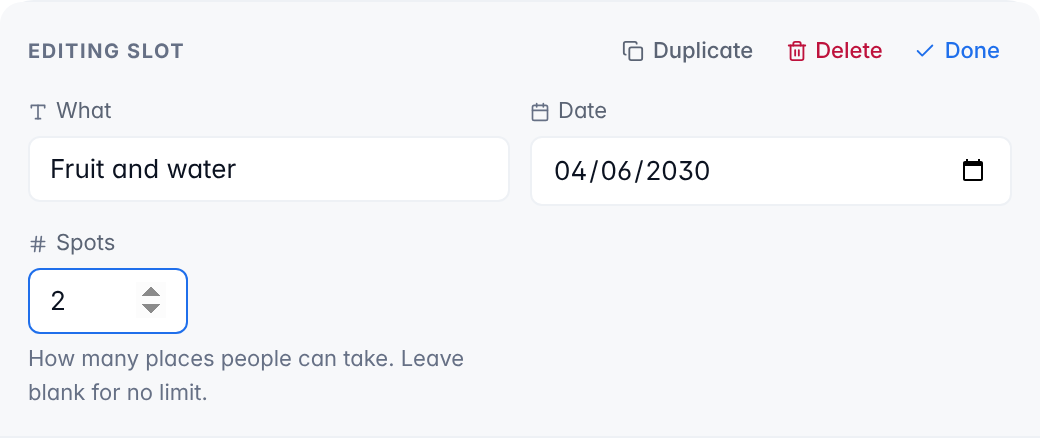
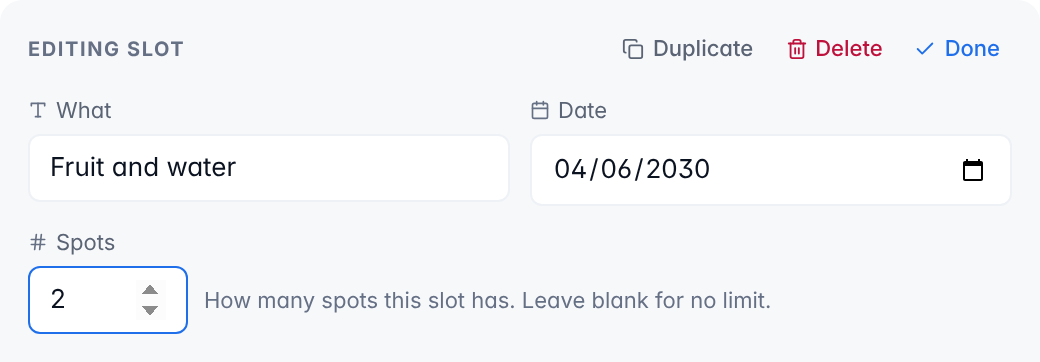
Give the slot editor's Spots its own row, with its hint beside the box (#744)

diff --git a/src/components/build-wysiwyg/SlotEditor.tsx b/src/components/build-wysiwyg/SlotEditor.tsx
@@ -40,8 +40,9 @@ type SlotEditorProps = {
 
 /**
  * Inline accordion editor for a single slot. Auto-fit grid keeps small
- * schemas tight while letting wider schemas wrap naturally; spots ride
- * along as the trailing cell so it lives in the same visual band.
+ * schemas tight while letting wider schemas wrap naturally. Spots takes a
+ * row of its own, so its hint can sit on one line beside the box rather
+ * than wrapping in whatever part of a row the fields leave over.
  */
 export function SlotEditor({
   row,
@@ -172,31 +173,33 @@ export function SlotEditor({
             </Cell>
           );
         })}
-        <label className="flex flex-col gap-1 text-[11px] text-ink-muted">
+        <label className="col-span-full flex flex-col gap-1 text-[11px] text-ink-muted">
           <span className="inline-flex items-center gap-1">
             <Hash size={10} className="text-ink-soft" />
             Spots
           </span>
-          <input
-            type="number"
-            min={1}
-            value={row.capacity ?? ''}
-            placeholder="No limit"
-            onChange={(e) => {
-              const raw = e.target.value;
-              if (raw === '') {
-                onCapacity(null);
-                return;
-              }
-              const parsed = parseInt(raw, 10);
-              onCapacity(Math.max(1, Number.isFinite(parsed) ? parsed : 1));
-            }}
-            aria-label="Spots"
-            aria-describedby={spotsHelpId}
-            className="w-20 rounded-md border border-surface-sunk bg-white px-2.5 py-1.5 text-[13px] text-ink outline-none focus:border-brand"
-          />
-          <span id={spotsHelpId} className="text-[11px] text-ink-soft">
-            How many places people can take. Leave blank for no limit.
+          <span className="flex items-center gap-2">
+            <input
+              type="number"
+              min={1}
+              value={row.capacity ?? ''}
+              placeholder="No limit"
+              onChange={(e) => {
+                const raw = e.target.value;
+                if (raw === '') {
+                  onCapacity(null);
+                  return;
+                }
+                const parsed = parseInt(raw, 10);
+                onCapacity(Math.max(1, Number.isFinite(parsed) ? parsed : 1));
+              }}
+              aria-label="Spots"
+              aria-describedby={spotsHelpId}
+              className="w-20 shrink-0 rounded-md border border-surface-sunk bg-white px-2.5 py-1.5 text-[13px] text-ink outline-none focus:border-brand"
+            />
+            <span id={spotsHelpId} className="min-w-0 text-[11px] text-ink-soft">
+              How many spots this slot has. Leave blank for no limit.
+            </span>
           </span>
         </label>
       </div>

diff --git a/src/help/articles/create-and-publish-a-signup.tsx b/src/help/articles/create-and-publish-a-signup.tsx
@@ -107,7 +107,7 @@ export function CreateAndPublishASignup() {
               src="/help/create-and-publish-a-signup/slot.png"
               alt="A slot being edited, with What set to Fruit and water, a date set, and Spots set to 2."
               width={520}
-              height={219}
+              height={181}
             />
           </Step>
           <Step>

diff --git a/src/components/build-wysiwyg/SlotEditor.test.tsx b/src/components/build-wysiwyg/SlotEditor.test.tsx
@@ -151,7 +151,7 @@ describe('SlotEditor', () => {
     const helperId = cap.getAttribute('aria-describedby');
     expect(helperId).toBeTruthy();
     expect(document.getElementById(helperId!)?.textContent).toBe(
-      'How many places people can take. Leave blank for no limit.',
+      'How many spots this slot has. Leave blank for no limit.',
     );
   });
 

diff --git a/CHANGELOG.md b/CHANGELOG.md
@@ -33,6 +33,7 @@ All notable changes to OpenSignup are documented here. Format follows [Keep a Ch
 - Organizers can let participants sign up without an email (#378). The signup's `requireEmail` setting, on by default, is set on the Settings tab, in a new "Sign-up form" section: "Ask for an email address", Required or Optional, then Save. The AI connector's `update_signup` tool and `PATCH /api/signups/[id]` can set it too. A line under the choices says what the one picked means, and changes as soon as the radio does: with Required, everyone is emailed their link to change or cancel; with Optional, people who leave it blank get no emails, not even reminders, so they need to save their link, and someone who loses it can sign up again while the organizer removes the old one on the Responses tab. A viewer is refused with "You don’t have edit access.", the words the Build tab now uses too in place of "You no longer have edit access.", and a refused Delete on the same tab is put in the same plain words instead of the service's own message. With it off, the sign-up form's Email box says "(optional)" and starts blank, even for someone this browser remembers. Its help says what an email brings (the link, and a reminder only where that slot will get one) and to save the link without one. Someone who leaves it blank gets no confirmation or reminder emails. Their link to change or cancel is not emailed: the confirmation screen shows it, says to save it and offers Copy link in place of Share link, which on a phone invited them to post it, and the `os_commit` cookie keeps it in that browser. If the organizer turns it back on after the page loaded, the refused blank email turns the box required. In `POST /api/slots/[id]/commitments`, a blank, whitespace-only, null or missing `email` now means none: a signup that requires one refuses it with `invalid_input` on `email`, and one that doesn't always adds a new participant, as there is nothing to find them by. Turning the setting back on asks only new sign-ups: anyone already signed up without an email keeps their spot and can still change or move it. `get_signup` and the other connector tools now show `requireEmail`; `update_signup` advertises no default for any setting, so a client that fills in defaults cannot turn it back on with an unrelated change. The privacy and cookies pages and the help pages say what happens without an email, and the help page "Create and publish your first signup" explains the setting and what to do when someone loses their link. The "Sorry, this link isn’t working" page tells everyone to contact the organizer, and to try their confirmation email's link only if they got one.
 
 ### Changed
+- In the Build tab's slot editor, **Spots** now has a row of its own, with its hint on the same line beside the box (#720). It used to share a row with the fields, so with two fields it sat in the left half of the next row and its hint wrapped onto two lines beside empty space. On a phone the hint wraps beside the box rather than under it. The hint now reads "How many spots this slot has. Leave blank for no limit.", using the word the box and the help pages use, in place of "How many places people can take."
 - Magic Compose calls fields "fields", as the Build tab does, instead of "columns" (#719). The banner after an AI draft reads "Here's your draft, 2 fields and 3 slots" ("1 field" for one), the drafting screen labels its preview "Fields" and its step "Choosing fields for each slot", and the "A few things to double-check" warnings say "1 value was left blank because it didn't fit its field. Fill it in below." ("3 values were left blank because they didn't fit their fields."), "Field Shift arrived without a fixed list of options, so it was switched to free text.", "Removed 2 duplicate fields the AI tried to add twice." and "Ignored 2 stray values that didn't match any field." What the AI itself is told is unchanged.
 - The privacy and terms pages say more about who is responsible for what. The privacy page no longer promises it matches the code exactly, and asks people to report anything it gets wrong. New sections cover who is responsible for data (the operator for organizers' accounts and for its own use of anyone's details; the organizer for what they do with the people on their signup), who can see a participant's details, why each kind of data is used, how long each is kept (nothing deletes accounts, signups or sign-ups automatically yet), where data is stored, and children; the rights section adds correcting data, objecting, and complaining to a data protection authority. It also says that an instance set to print emails to its log instead of sending them logs each email's address, subject and the start of its text. The terms gain sections on who can use the site, what organizers and participants are responsible for (organizers cover the operator's costs of claims about their signups, as far as the law allows and except where the operator caused them), how the operator handles participants' details on an organizer's behalf, and availability, including that emails are sent on a best-effort basis. The no-warranty clause now says it doesn't exclude liability the law doesn't allow to be excluded. Nothing about what the app stores or does changes.
 - The "too many requests" pages a browser sees while connecting an AI assistant now give the wait in whole minutes, rounded up (#679), as the participant page and the New signup form already did. A wait under two minutes used to be counted in seconds, so the last second of a limit read "Wait 1 seconds"; it now reads "Wait 1 minute", and anything from 61 to 119 seconds reads "2 minutes". The participant page, the New signup form, Magic Compose and the OAuth pages now share one rounding rule.
